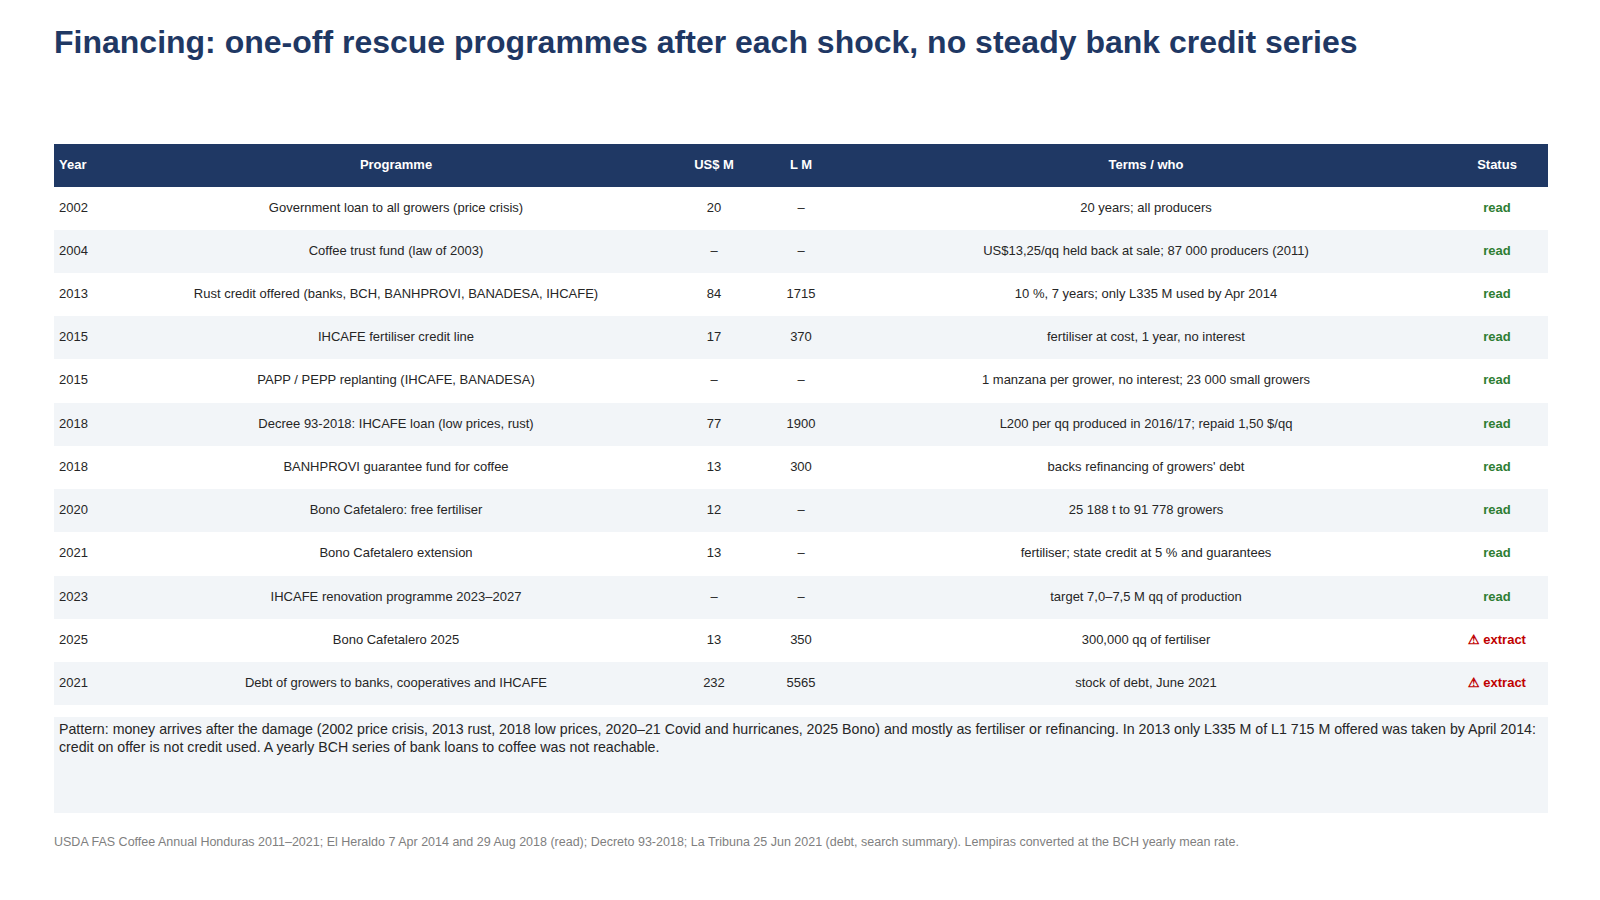
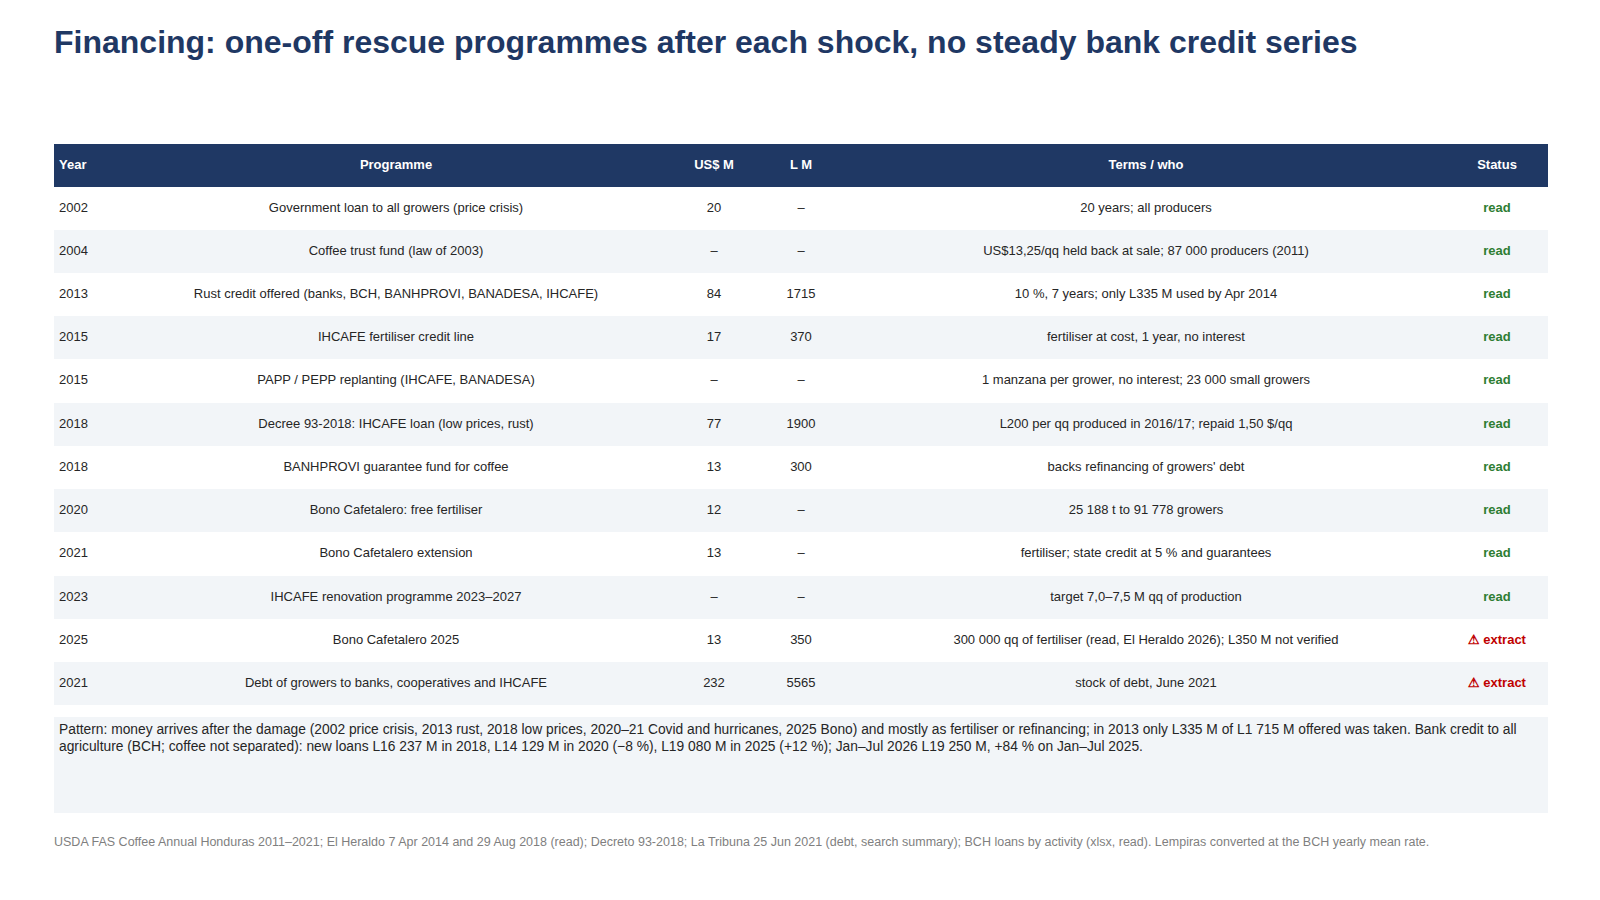
Add BCH bank credit to agriculture 2017-2026 to the Honduras year-by-year table
Loans outstanding and new loans to all agriculture (BCH, coffee not
separated) with year-on-year changes; Jan-Jul 2026 new loans +84 % on
Jan-Jul 2025. 2025 Bono volume marked as read.

Claude-Session: https://claude.ai/code/session_01GCSUFXh2mYdWNgg7VCeE1G

Changed region(s): [[0.0312, 0.7778, 0.9375, 0.84], [0.5938, 0.9333, 0.875, 0.9644], [0.5938, 0.6844, 0.8438, 0.7156]]

diff --git a/research/honduras/slides/build_yoy_deck.py b/research/honduras/slides/build_yoy_deck.py
@@ -15,6 +15,7 @@ yld = lambda t: R[t]['prod_kbags'] / R[t]['bear_kha']
 kgt = lambda t: R[t]['prod_kbags'] * 60 / R[t]['trees_m'] / 1000
 ureaL = lambda t: R[t]['urea_wb'] * R[t]['fx']
 avg = lambda f, ys: sum(f(t) for t in ys) / len(ys)
+sp = lambda v: format(round(v), ',').replace(',', ' ')
 P0, P1 = (2016, 2017, 2018), (2022, 2023, 2024)
 
 
@@ -114,7 +115,8 @@ def slide_finance():
              'Fondo para el Sector Cafetero (BANHPROVI)': ('BANHPROVI guarantee fund for coffee', 'backs refinancing of growers\' debt'),
              'Bono Cafetalero (PCM 030-2020): free fertiliser': ('Bono Cafetalero: free fertiliser', '25 188 t to 91 778 growers'),
              'Bono Cafetalero extension (PCM 031-2021)': ('Bono Cafetalero extension', 'fertiliser; state credit at 5 % and guarantees'),
-             'IHCAFE renovation programme 2023–2027': ('IHCAFE renovation programme 2023–2027', 'target 7,0–7,5 M qq of production')}
+             'IHCAFE renovation programme 2023–2027': ('IHCAFE renovation programme 2023–2027', 'target 7,0–7,5 M qq of production'),
+             'Bono Cafetalero 2025': ('Bono Cafetalero 2025', '300 000 qq of fertiliser (read, El Heraldo 2026); L350 M not verified')}
     for f in FV.FINANCE:
         usd = f.get('usd_m') or ((f['lps_m'] / D.FX[f['year']]) if f.get('lps_m') and f.get('conv') else None)
         st = 'read' if f['status'] in ('USDA', 'DOC') else '⚠ extract'
@@ -122,9 +124,13 @@ def slide_finance():
         rows.append([str(f['year']), nm, fr(usd, 0) if usd else '–', fr(f['lps_m'], 0) if f.get('lps_m') else '–', terms, [(st, dict(color=GREEN if st == 'read' else RED, b=True))]])
     rows.append(['2021', 'Debt of growers to banks, cooperatives and IHCAFE', fr(FV.DEBT['lps_m'] / D.FX[2021], 0), fr(FV.DEBT['lps_m'], 0), 'stock of debt, June 2021', [('⚠ extract', dict(color=RED, b=True))]])
     yy = p.table(0.45, 1.2, [0.55, 4.6, 0.7, 0.75, 5.0, 0.85], 0.36, rows, sz=7.8)
-    p.text(0.45, yy + 0.1, 12.45, 0.8, ['Pattern: money arrives after the damage (2002 price crisis, 2013 rust, 2018 low prices, 2020–21 Covid and hurricanes, 2025 Bono) and mostly as fertiliser or refinancing. '
-                                        'In 2013 only L335 M of L1 715 M offered was taken by April 2014: credit on offer is not credit used. A yearly BCH series of bank loans to coffee was not reachable.'], sz=8.5, fill='F2F5F8')
-    p.source('USDA FAS Coffee Annual Honduras 2011–2021; El Heraldo 7 Apr 2014 and 29 Aug 2018 (read); Decreto 93-2018; La Tribuna 25 Jun 2021 (debt, search summary). Lempiras converted at the BCH yearly mean rate.', y=6.95)
+    cr = D.CREDIT
+    c26 = D.CREDIT_2026
+    p.text(0.45, yy + 0.1, 12.45, 0.8, ['Pattern: money arrives after the damage (2002 price crisis, 2013 rust, 2018 low prices, 2020–21 Covid and hurricanes, 2025 Bono) and mostly as fertiliser or refinancing; '
+                                        'in 2013 only L335 M of L1 715 M offered was taken. Bank credit to all agriculture (BCH; coffee not separated): new loans L%s M in 2018, L%s M in 2020 (−8 %%), L%s M in 2025 (+12 %%); '
+                                        'Jan–Jul 2026 L%s M, +%s %% on Jan–Jul 2025.' % (sp(cr[1]['new']), sp(cr[3]['new']), sp(cr[8]['new']), sp(c26['new']), fr(100 * (c26['new'] / c26['new_jul25'] - 1), 0))],
+           sz=8.3, fill='F2F5F8')
+    p.source('USDA FAS Coffee Annual Honduras 2011–2021; El Heraldo 7 Apr 2014 and 29 Aug 2018 (read); Decreto 93-2018; La Tribuna 25 Jun 2021 (debt, search summary); BCH loans by activity (xlsx, read). Lempiras converted at the BCH yearly mean rate.', y=6.95)
     return p
 
 

diff --git a/research/honduras/excel/build_yoy_xlsx.py b/research/honduras/excel/build_yoy_xlsx.py
@@ -45,7 +45,7 @@ lines = [
     ('Fertiliser: FAOSTAT nitrogen / phosphate / potash use, urea imports, urea price in US$ and in lempiras, kg of urea bought by 1 kg of coffee, Bono Cafetalero.', None),
     ('Disease: every rust (roya) figure found, by year, and the USDA remarks on rust, berry borer, drought and fertiliser.', None),
     ('Varieties: resistant varieties released, and every figure on the share planted.', None),
-    ('Finance: state and bank programmes by year, debt, Bono Cafetalero.', None),
+    ('Finance: state and bank programmes by year, debt, Bono Cafetalero, BCH bank credit to agriculture 2017-2026.', None),
     ('FX: lempiras per US$ (BCH daily reference rate, annual mean), coffee and urea prices in lempiras.', None),
     ('', None),
     ('Crop year t = October t to September t+1 (label t/t+1). Calendar-year series (FAOSTAT, World Bank, BCH) are put on the crop year that starts in that year.', None),
@@ -335,6 +335,34 @@ fi.set(r, 4, FV.DEBT['lps_m'], IN0)
 fi.set(r, 3, FV.DEBT['lps_m'] / D.FX[2021], F1, 'D%d/YoY!%s%d' % (r, C('fx'), rowof(2021)))
 fi.set(r, 7, *TAG[FV.DEBT['status']])
 fi.set(r, 8, FV.DEBT['src'])
+r += 3
+fi.set(r, 1, 'Bank credit to agriculture (BCH, all farming: coffee is not separated), millions of lempiras', B)
+fi.row(r + 1, 1, ['Year', 'Loans outstanding, December', 'change', 'New loans in the year', 'change', 'Share of all new loans', 'Loans outstanding in US$ M', 'Source'], H)
+c0 = r + 2
+for k, cr in enumerate(D.CREDIT):
+    rr = c0 + k
+    fi.set(rr, 1, cr['year'])
+    fi.set(rr, 2, cr['stock'], IN0)
+    fi.set(rr, 4, cr['new'], IN0)
+    if k:
+        fi.set(rr, 3, cr['stock'] / D.CREDIT[k - 1]['stock'] - 1, PCT, 'B%d/B%d-1' % (rr, rr - 1))
+        fi.set(rr, 5, cr['new'] / D.CREDIT[k - 1]['new'] - 1, PCT, 'D%d/D%d-1' % (rr, rr - 1))
+    fi.set(rr, 6, cr['new'] / cr['new_total'], Style(fmt='0.0%'))
+    fi.set(rr, 7, cr['stock'] / D.FX[cr['year']], F0, 'B%d/YoY!%s%d' % (rr, C('fx'), rowof(cr['year'])))
+    fi.set(rr, 8, 'BCH, Prestamos de las Otras Sociedades de Depositos por Actividad (xlsx read, raw/ihcafe_docs5)', OK)
+rr = c0 + len(D.CREDIT)
+c26 = D.CREDIT_2026
+fi.set(rr, 1, '2026 Jan-Jul')
+fi.set(rr, 2, c26['stock'], IN0)
+fi.set(rr + 1, 1, '2025 Jan-Jul')
+fi.set(rr + 1, 2, c26['stock_jul25'], IN0)
+fi.set(rr, 3, c26['stock'] / c26['stock_jul25'] - 1, PCT, 'B%d/B%d-1' % (rr, rr + 1))
+fi.set(rr, 4, c26['new'], IN0)
+fi.set(rr + 1, 4, c26['new_jul25'], IN0)
+fi.set(rr, 5, c26['new'] / c26['new_jul25'] - 1, PCT, 'D%d/D%d-1' % (rr, rr + 1))
+fi.set(rr + 3, 1, 'Reading: credit to agriculture grew slower than total credit (its share of new loans fell from 6.1 % in 2018 to 3.4 % in 2024) and fell in 2020 (-8 %). '
+                  'It picked up in 2024-2025 (+11 %, +12 % new loans) and jumped in 2026: new loans Jan-Jul +84 % on Jan-Jul 2025, with average lending rates down 3.8 points (BCH communique, June 2026). '
+                  'Coffee is not separated in BCH data.', WRAP)
 fi.widths = {1: 7, 2: 60, 3: 9, 4: 11, 5: 40, 6: 60, 7: 24, 8: 50}
 FIN_LAST = r
 

diff --git a/research/honduras/yoy/data_yoy.py b/research/honduras/yoy/data_yoy.py
@@ -132,6 +132,20 @@ BONO = [
 PRODUCERS = [dict(year=2018, value=130000, registered=110000, status='DOC', src='El Heraldo 5 Sep 2018 (read)'),
              dict(year=2022, value=100000, registered=None, status='DOC', src='La Prensa / EFE 1 Nov 2022 (read): "mas de 100,000 productores"')]
 
+# ---------------------------------------------------------------- BCH bank credit to agriculture (all farming, coffee not separated)
+# "Prestamos de las Otras Sociedades de Depositos al Sector Privado por Actividad", millions of lempiras (raw/ihcafe_docs5)
+BCH_AGRI = {}
+for r in csv.DictReader(open(HN + 'raw/ihcafe_docs5/bch_prestamos_agropecuaria.csv')):
+    BCH_AGRI[(r['sheet'], r['date'][:7])] = (float(r['agropecuaria_mill_L']), float(r['total_mill_L']))
+CREDIT = []
+for y in range(2017, 2026):
+    s_, n_ = BCH_AGRI[('Pres sobre saldos', '%d-12' % y)], BCH_AGRI[('Pres Nuevos', '%d-12' % y)]
+    CREDIT.append(dict(year=y, label='%d (Dec)' % y, stock=s_[0], stock_total=s_[1], new=n_[0], new_total=n_[1]))
+s_, n_ = BCH_AGRI[('Pres sobre saldos', '2026-07')], BCH_AGRI[('Pres Nuevos', '2026-07')]
+n25 = BCH_AGRI[('Pres Nuevos', '2025-07')]
+s25 = BCH_AGRI[('Pres sobre saldos', '2025-07')]
+CREDIT_2026 = dict(stock=s_[0], stock_total=s_[1], new=n_[0], new_total=n_[1], new_jul25=n25[0], stock_jul25=s25[0])
+
 # ---------------------------------------------------------------- heat (coffee zones) for context
 RB = json.load(open(HN + 'yield_drivers/robustness.json'))
 HEAT = {int(k): v for k, v in RB['coffee_zone_tmax']['sep_oct'].items()}
